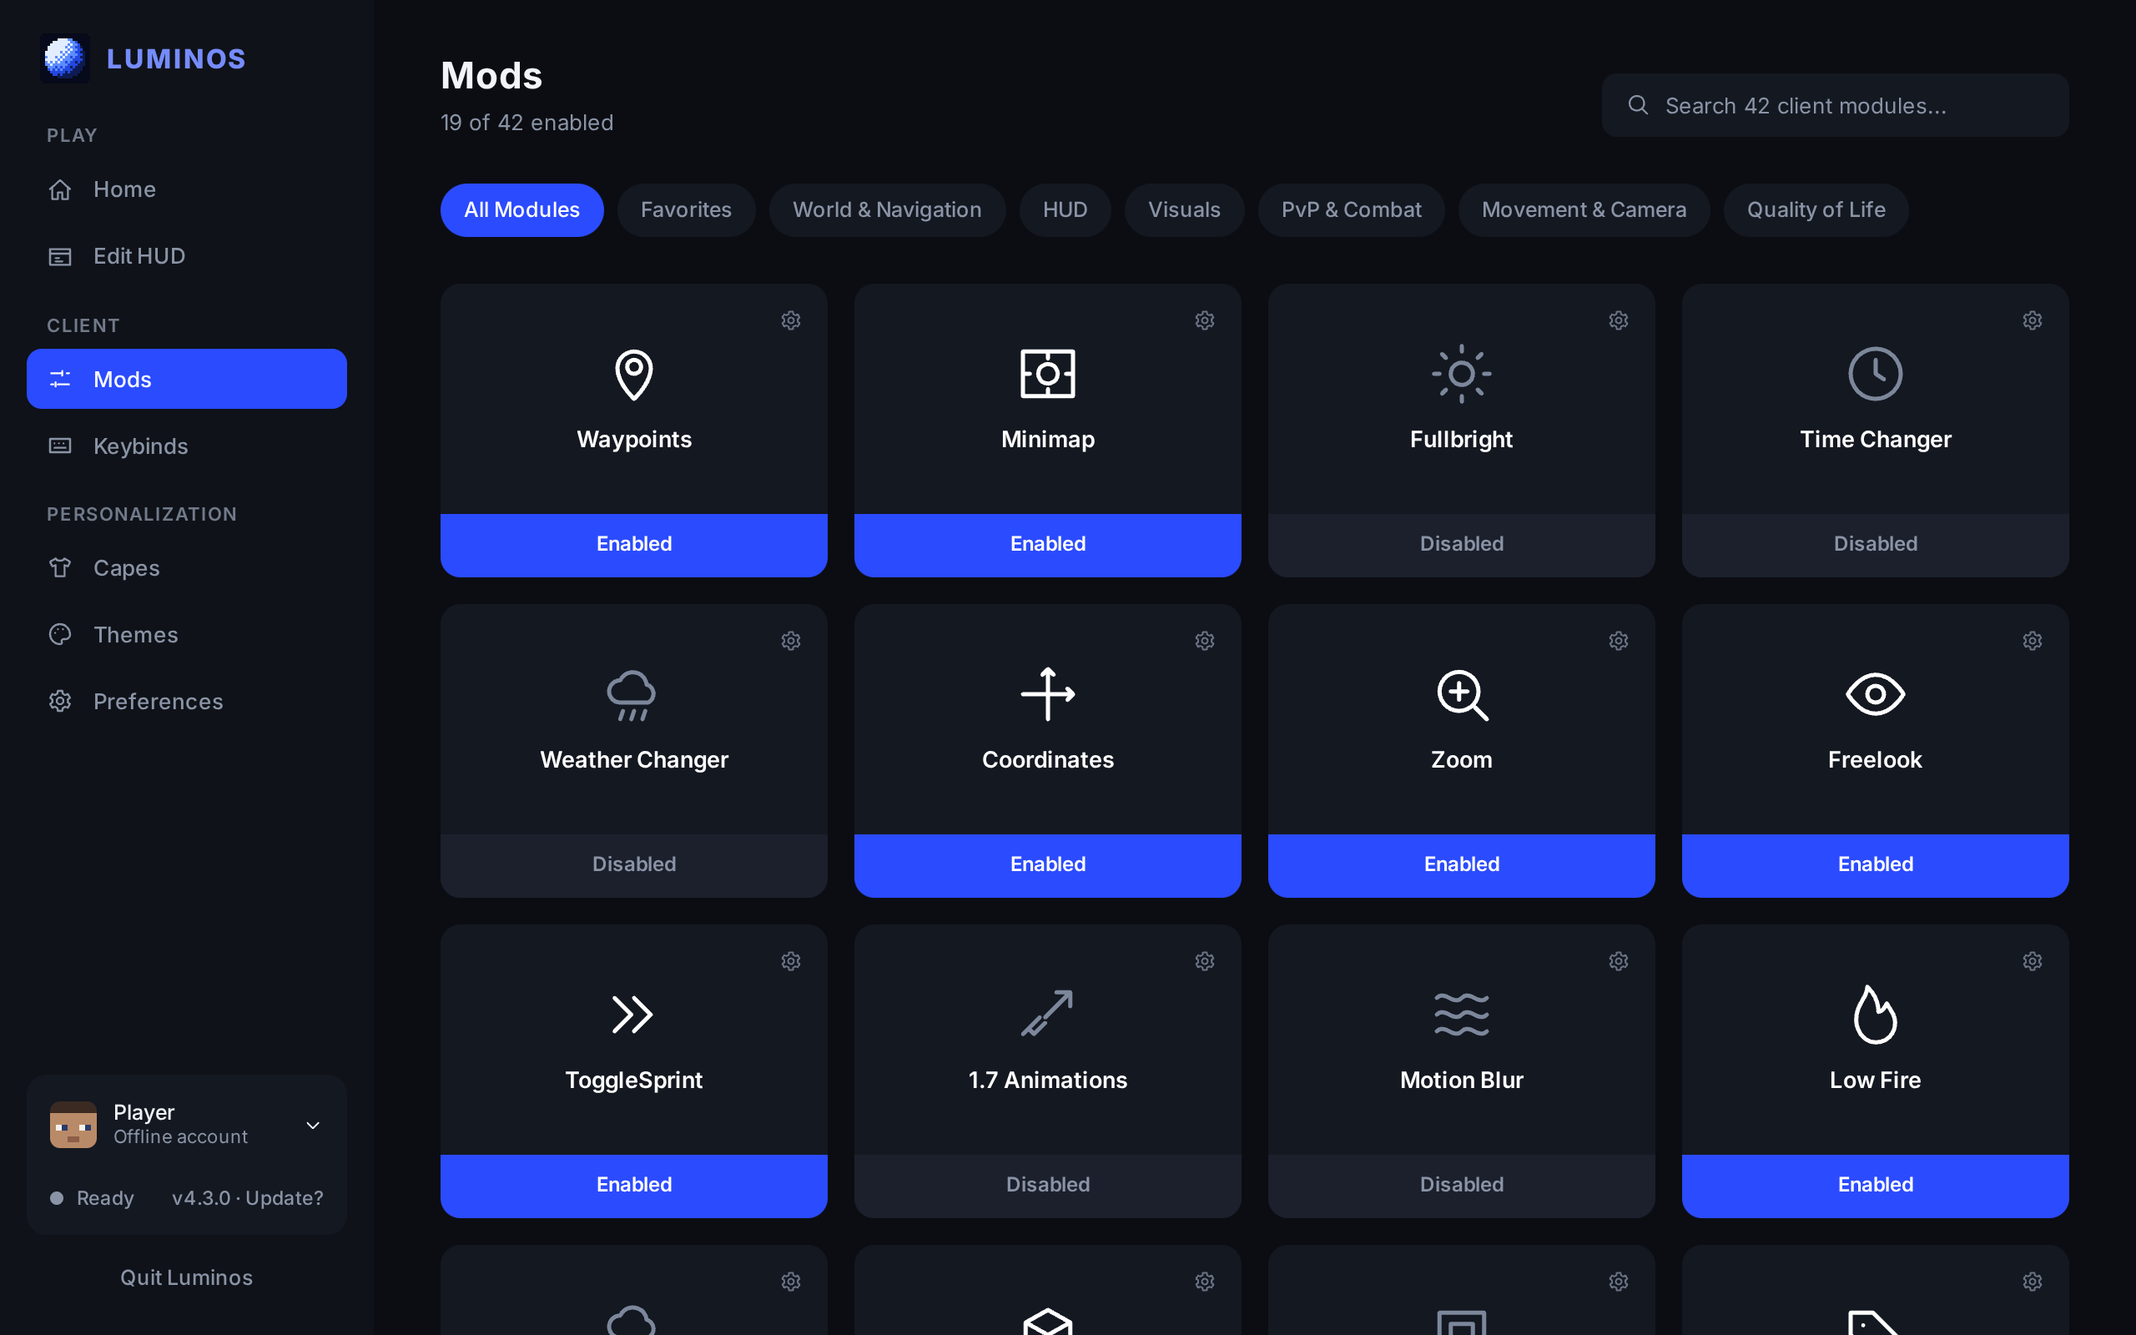
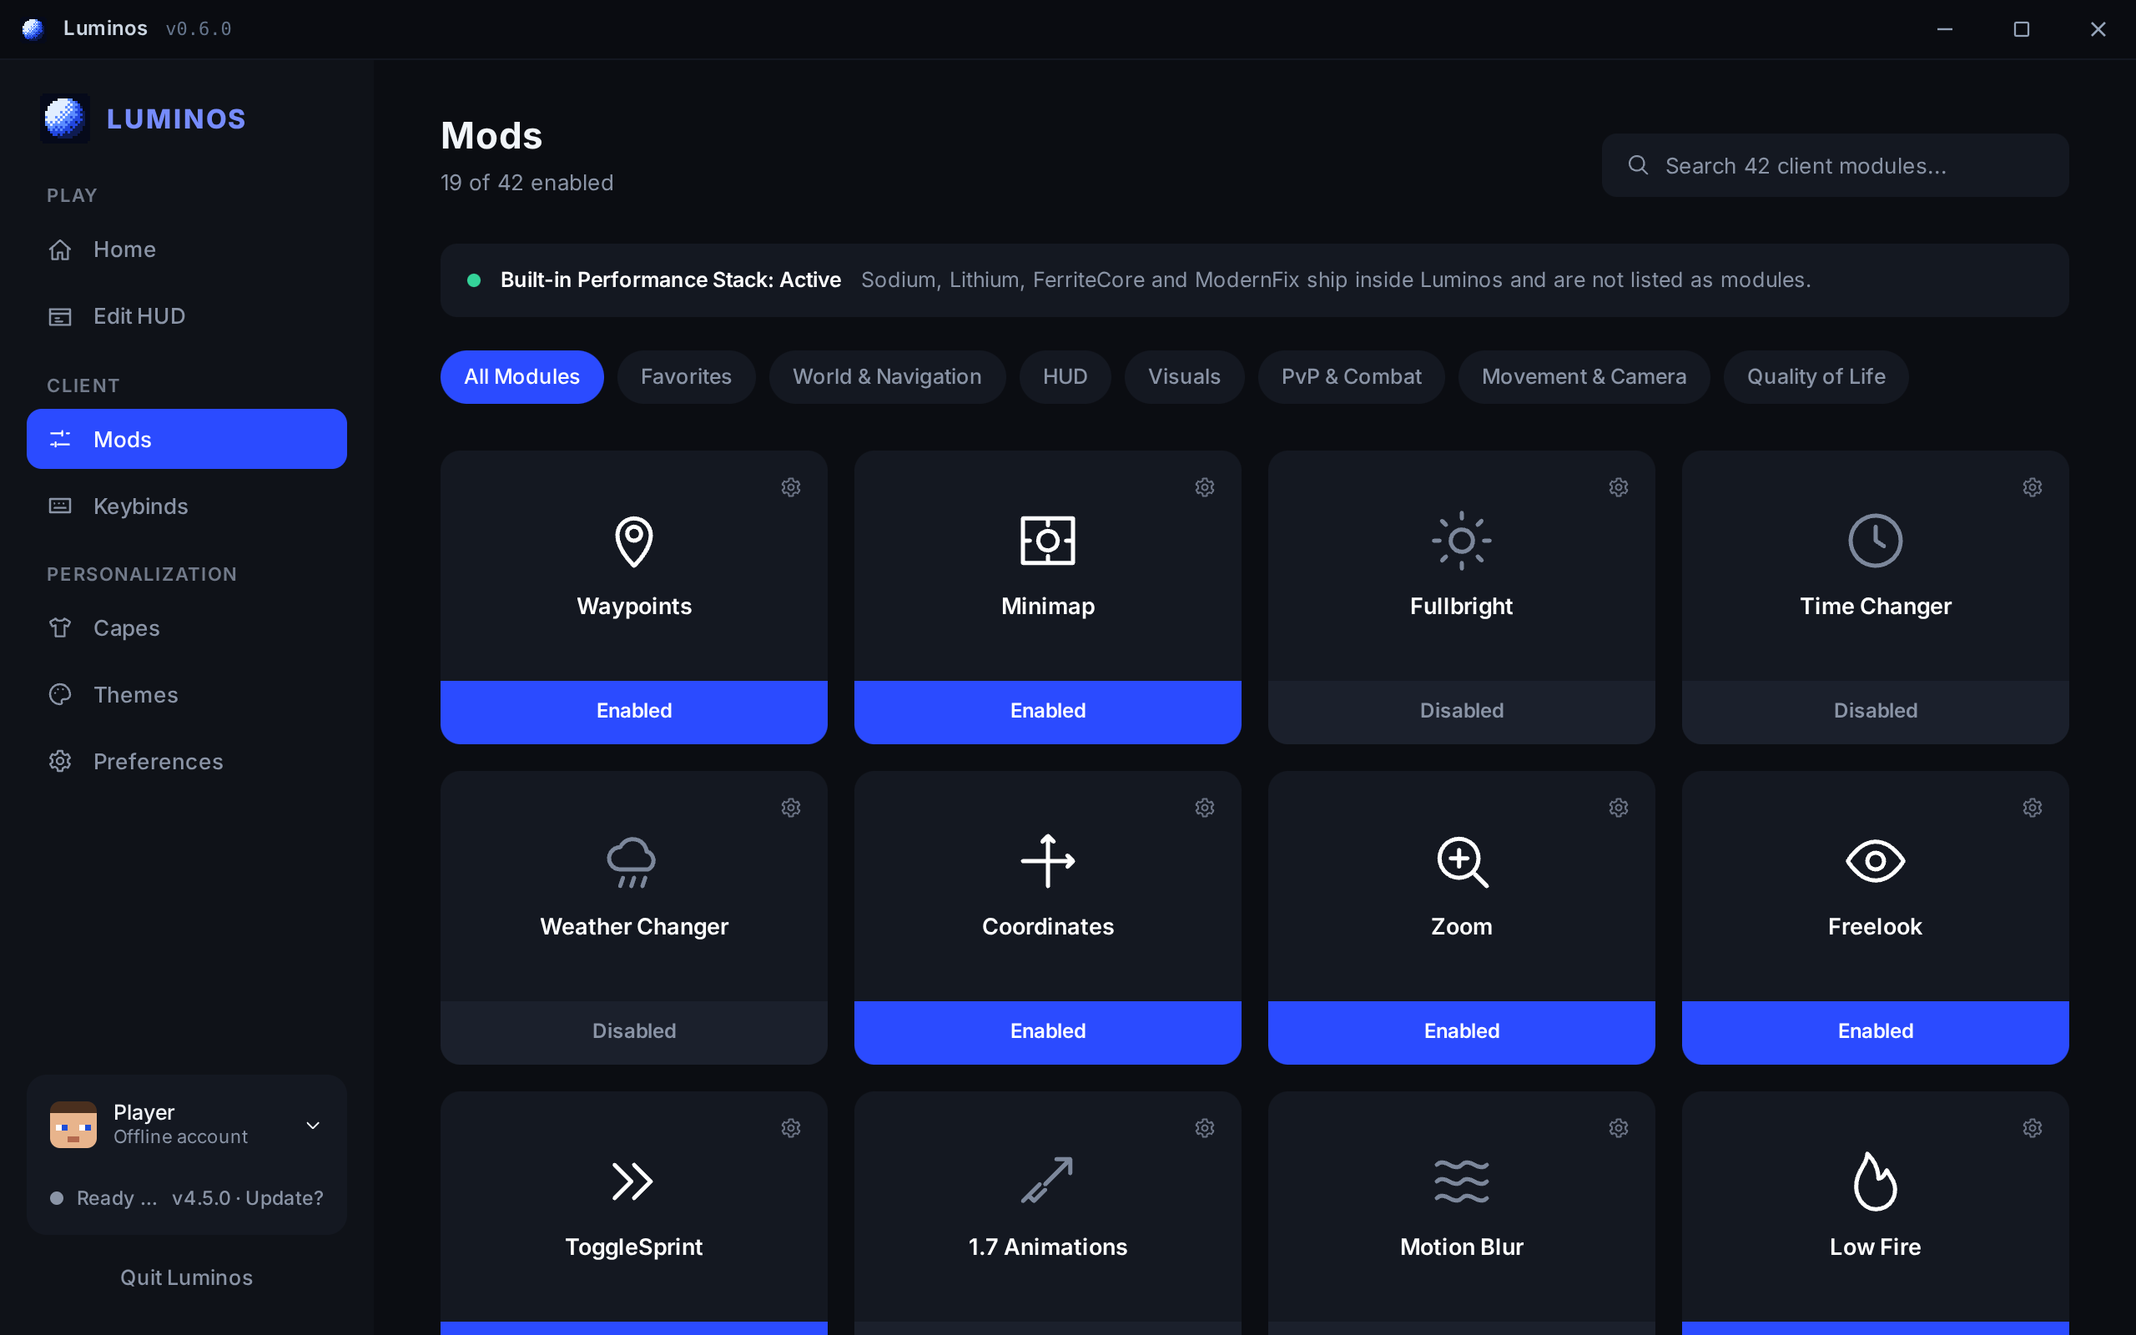
fix(release 4.5.0): changelog EN/ES sections, 26.x jar version, startup marker for Luminos menu; launcher v4.5 renders, clipped version picker, stale title-bar version; site showcase tabs

diff --git a/site/src/components/InsideV45.tsx b/site/src/components/InsideV45.tsx
@@ -9,6 +9,9 @@ const TABS = [
   { id: "startup", label: "In-Game Startup Screen", src: "renders/mc-startup-screen.png", note: "LuminosMainMenuScreen replaces the vanilla title screen. Seven actions, keyboard navigation, no blur pass.", callouts: ["setScreen Mixin swaps TitleScreen", "TitleScreen.init guard as fallback", "renderBackground is a no-op"] },
   { id: "panel", label: "Right-Ctrl Quick Mod Panel", src: "renders/mc-quick-panel.png", note: "Tabs, toggles and the settings drawer all work in place. Nothing in this panel opens another screen.", callouts: ["Raw key hook + per-frame poll", "One clipped hit-region list", "Inline drawer, real Scale slider"] },
   { id: "hud", label: "In-Game HUD Studio", src: "renders/mc-hud-studio.png", note: "Drag a widget and it snaps to the centre guide. This frame is a real drag through the editor's own code.", callouts: ["Magnetic centre and edge guides", "Per-widget scale and on/off", "Sample data when no world is loaded"] },
+  { id: "home", label: "Launcher Home & Version Switcher", src: "renders/launcher-home.png", note: "Pick the Minecraft version (1.21.4 down to 1.19.4), the engine preset and the window mode right next to Launch. The choice is saved at once and used by the launch.", callouts: ["7 Fabric versions, one click", "Max FPS / Competitive PvP / Balanced", "Own title bar: minimize, maximize, close"] },
+  { id: "capes", label: "3D Capes Studio", src: "renders/launcher-capes.png", note: "Your own character, lit so it reads clearly, beside the original 3D cape cards. Front and Back views.", callouts: ["skinview3d, studio lighting", "Original Luminos capes only", "Classic or Slim arms"] },
+  { id: "mods", label: "Mod Matrix", src: "renders/launcher-mods.png", note: "42 client modules as cards with an in-place switch. The performance stack is built in and not listed as modules.", callouts: ["One switch per module", "Filter by category", "Shares config with the in-game panel"] },
 ] as const;
 
 export default function InsideV45() {
@@ -17,9 +20,9 @@ export default function InsideV45() {
   const t = TABS[i];
   return (
     <section id="inside" className="mx-auto max-w-6xl px-6 py-24" aria-labelledby="inside-h">
-      <p className="text-xs uppercase tracking-widest" style={{ color: "#8FA2FF" }}>Inside Luminos v4.5</p>
-      <h2 id="inside-h" className="mt-2 text-3xl font-semibold text-white">Real in-game client renders</h2>
-      <p className="mt-3 max-w-2xl text-sm" style={{ color: "#94A3B8" }}>Rendered at 1280×800 @2x by the client's headless test suite, using the same layout and hit-test code the game runs. They are composed renders (a drawn world backdrop, no GPU), not screenshots of a running game.</p>
+      <p className="text-xs uppercase tracking-widest" style={{ color: "#8FA2FF" }}>Inside Luminos v4.5 · Real In-Game Client &amp; Launcher Renders</p>
+      <h2 id="inside-h" className="mt-2 text-3xl font-semibold text-white">Real in-game client &amp; launcher renders</h2>
+      <p className="mt-3 max-w-2xl text-sm" style={{ color: "#94A3B8" }}>The three in-game screens are rendered at 1280×800 @2x by the client's headless test suite, using the same layout and hit-test code the game runs: composed renders with a drawn world backdrop, not screenshots of a running game. The launcher shots are captures of its real interface in a browser at the same size, not of the packaged Windows window.</p>
       <div role="tablist" aria-label="Client screens" className="mt-8 flex flex-wrap gap-2">
         {TABS.map((x, n) => (
           <button key={x.id} role="tab" aria-selected={n === i} onClick={() => setI(n)} className="h-10 px-4 rounded-lg text-sm font-medium transition-colors" style={n === i ? { background: "#2B4BFF", color: "#fff" } : { background: "#141821", color: "#94A3B8" }}>{x.label}</button>

diff --git a/app/src/screens/Home.tsx b/app/src/screens/Home.tsx
@@ -121,14 +121,16 @@ export default function Home({ boot, go }: { boot: Boot; go: (r: string) => void
   return (
     <Page>
       <div className="space-y-8">
-        <section className="relative h-[300px] rounded-[16px] overflow-hidden flex items-end justify-start p-9" style={{ background: "var(--surface)" }}>
-          <img src="/art/hero-blue-hour.webp" alt="" className="absolute inset-0 w-full h-full object-cover object-right" decoding="async" />
-          <div className="absolute inset-0" style={{ background: "linear-gradient(90deg, rgba(11,13,18,0.95) 0%, rgba(11,13,18,0.65) 48%, rgba(11,13,18,0) 82%)" }} />
-          <div className="relative max-w-[560px] space-y-4">
+        <section className="relative min-h-[300px] rounded-[16px] flex items-end justify-start px-9 py-8" style={{ background: "var(--surface)" }}>
+          <div aria-hidden className="absolute inset-0 rounded-[16px] overflow-hidden">{/* only the art is clipped, so the pickers can open over the page */}
+            <img src="/art/hero-blue-hour.webp" alt="" className="absolute inset-0 w-full h-full object-cover object-right" decoding="async" />
+            <div className="absolute inset-0" style={{ background: "linear-gradient(90deg, rgba(11,13,18,0.95) 0%, rgba(11,13,18,0.65) 48%, rgba(11,13,18,0) 82%)" }} />
+          </div>
+          <div className="relative max-w-[840px] space-y-3">
             <span className="inline-flex items-center gap-2 text-[11px] font-bold tracking-wider uppercase" style={{ color: "#8FA2FF" }}><span aria-hidden className="w-1.5 h-1.5 rounded-full" style={{ background: "#34D399" }} />Luminos Client v{APP_VERSION} · MC {c.prefs.gameVersion} · {c.prefs.enginePreset}</span>
             <h1 className="m-0 !mt-2 text-[32px] font-bold leading-tight text-white">Luminos Client <span style={{ color: "#8FA2FF" }}>{APP_VERSION.split(".").slice(0, 2).join(".")}</span></h1>
-            {!preparing && <p className="m-0 !mt-3 text-[13.5px] leading-relaxed" style={{ color: "#94A3B8" }}>{MODULES.length} built-in PvP and survival modules, with the performance stack and the Luminos Asset Verifier already inside. Press Right Ctrl in game for the quick panel.</p>}
-            <div className="pt-3 flex items-center gap-3 flex-wrap">
+            {!preparing && <p className="m-0 !mt-2 max-w-[560px] text-[13.5px] leading-relaxed" style={{ color: "#94A3B8" }}>{MODULES.length} built-in PvP and survival modules, with the performance stack and the Luminos Asset Verifier already inside. Press Right Ctrl in game for the quick panel.</p>}
+            <div className="pt-2 flex items-center gap-3 flex-wrap">
               {g.status === "idle" && (
                 <button onClick={() => void launch()} className="h-[46px] px-8 rounded-[10px] text-white text-[14px] font-semibold flex items-center gap-2.5 t press" style={{ background: "#2B4BFF", boxShadow: "0 4px 20px rgba(43,75,255,0.35)" }}>
                   <span aria-hidden>▶</span>LAUNCH LUMINOS
@@ -143,8 +145,8 @@ export default function Home({ boot, go }: { boot: Boot; go: (r: string) => void
                   <StopGameButton />
                 </>
               )}
-              {g.status === "idle" && <VersionSelect />}
-              {g.status === "idle" && <PresetSelect />}
+              {g.status === "idle" && <VersionSelect up={false} />}
+              {g.status === "idle" && <PresetSelect up={false} />}
               {g.status === "idle" && <button onClick={() => setHost(true)} className="h-[46px] px-4 rounded-[10px] text-[13px] font-medium t hover:!text-white" style={{ background: "rgba(22,27,38,.9)", color: "#94A3B8" }}>Host World</button>}
             </div>
             {g.status === "idle" && <div className="pt-1"><WindowModeToggle /></div>}

diff --git a/app/src/components/Sidebar.tsx b/app/src/components/Sidebar.tsx
@@ -19,7 +19,7 @@ const KIND: Record<string, string> = { MICROSOFT: "Microsoft", "ELY.BY": "Ely.by
 export default memo(function Sidebar({ page, go, name, skin, kind, onAccount }: { page: string; go: (r: string) => void; name: string; skin: string; kind: string; version?: string; onAccount: () => void }) {
   const g = useGame(), gv = useClient().prefs.gameVersion;
   const pct = Math.max(0, Math.min(100, Math.round(g.progress?.percent ?? g.fraction * 100)));
-  const live = g.status === "running" ? { text: "In-Game", color: "#34D399" } : g.status === "preparing" ? { text: `Launching ${pct}%`, color: "#7C93FF" } : { text: `Ready · MC ${gv}`, color: "#8A94A6" };
+  const live = g.status === "running" ? { text: "In-Game", color: "#34D399" } : g.status === "preparing" ? { text: `Launching ${pct}%`, color: "#7C93FF" } : { text: `Ready · ${gv}`, color: "#8A94A6" };
   return (
     <nav aria-label="Main" className="w-[224px] shrink-0 px-4 pt-5 pb-4 flex flex-col justify-between min-h-0" style={{ background: "#0F1218" }}>
       <div className="min-h-0 overflow-y-auto">
@@ -49,8 +49,8 @@ export default memo(function Sidebar({ page, go, name, skin, kind, onAccount }: 
           </button>
           <div className="flex items-center gap-2 px-1.5 h-7 text-[11.5px] font-medium" aria-live="polite">
             <span className="w-2 h-2 rounded-full shrink-0" style={{ background: live.color }} />
-            <span className="flex-1 truncate" style={{ color: live.color }}>{live.text}</span>
-            {g.status === "idle" && <button onClick={() => dispatchEvent(new Event("luminos:update"))} className="t hover:text-white" style={{ color: "var(--mute)" }} title="Check for a newer Luminos release" aria-label="Check for updates">v{APP_VERSION} · Update?</button>}
+            <span className="flex-1 min-w-0 truncate" style={{ color: live.color }} title={live.text}>{live.text}</span>
+            {g.status === "idle" && <button onClick={() => dispatchEvent(new Event("luminos:update"))} className="t hover:text-white" style={{ color: "var(--mute)" }} title={`Luminos v${APP_VERSION} — check for a newer release`} aria-label="Check for updates">↻</button>}
           </div>
           {g.status === "running" && <StopGameButton compact />}
         </div>

diff --git a/app/src/api.ts b/app/src/api.ts
@@ -7,7 +7,7 @@ export type Inst = { id: string; name: string; mc: string; loader: string; mods?
 export type AuditReport = { ok: boolean; checked: number; replaced: string[]; dropped: { name: string; reason: string }[]; notes: string[] };
 
 export const SEED = {
-  version: "0.6.0",
+  version: "4.5.0",
   account: { username: "Mira", uuid: "7f3a…c91e", kind: "Offline", cape: "luminos-moon-cape", skin: "luminos-pilot" },
   instances: [
     { id: "luminos-263", name: "Luminos", mc: "26.3", loader: "Fabric", mods: 31, playtime: 51720, last: "Today", java: 25 },

diff --git a/client/src/shared/java/dev/luminos/client/LuminosClient.java b/client/src/shared/java/dev/luminos/client/LuminosClient.java
@@ -73,7 +73,9 @@ public final class LuminosClient implements ClientModInitializer {
 
 		// CI hook: the smoke job looks for this exact line, then runs a short scripted tour and exits.
 		ScreenEvents.AFTER_INIT.register((client, screen, w, h) -> {
-			if (screen instanceof TitleScreen) {
+			// Since 4.4.0 the first screen is LuminosMainMenuScreen (not a TitleScreen subclass); it counts as "title reached" too.
+			// Matched by name because this shared source set also compiles for the 26.x client, which has no such class.
+			if (screen instanceof TitleScreen || screen.getClass().getSimpleName().equals("LuminosMainMenuScreen")) {
 				StartupProbe.titleReached();
 				LOGGER.info("[luminos] title-screen reached (minecraft {})", Nav.version(Minecraft.getInstance()));
 				if (System.getenv("LUMINOS_SMOKE") != null && smokeTick < 0) smokeTick = 0;

diff --git a/CHANGELOG.md b/CHANGELOG.md
@@ -1,11 +1,22 @@
 # Changelog
 
 ## 4.5.0
+
+### English
 - Launcher window: no longer always-on-top and no longer taller than 88% of the monitor, so it cannot cover the Windows taskbar (default 1200x720, minimum 960x580). Own title bar with minimize, maximize/restore and close, drag region and double-click to maximize. Always-on-top is an opt-in switch in Preferences.
 - Launcher: Minecraft version (1.21.4 to 1.19.4), engine preset and window mode selectors on Home and in Preferences, saved at once. Launch uses (or creates) the Fabric instance for exactly the selected version.
 - In-game client: startup screen redesigned as one left column of seven actions with keyboard navigation and a live engine badge; quick panel tabs renamed (Render, FPS); the open/close rule for Right Ctrl is now a tested pure function.
 - Client tests: 9 headless JUnit tests (clicks, tabs, in-place toggles, inline drawer, slider drag, key routing, Mixin registration) plus 2560x1600 renders of the three in-game screens. Composed renders, not captures of a running game.
 - Not verified: nothing was launched in a real Minecraft or on a real Windows desktop in this release; the Luminos Client loads on Minecraft 1.21.11 only.
+- **Release pipeline:** the 4.4.0 and 4.5.0 releases failed to publish because this section had no English / Español headings, and the real-game agent test never saw the startup screen (its marker only matched vanilla's TitleScreen). Both are fixed; the 26.x client jar is now versioned 4.5.0 too.
+
+### Español
+- **Ventana del lanzador:** ya no está siempre encima ni supera el 88% del monitor, por lo que no puede tapar la barra de tareas de Windows (por defecto 1200x720, mínimo 960x580). Barra de título propia con minimizar, maximizar/restaurar y cerrar.
+- **Lanzador:** selectores de versión de Minecraft (1.21.4 a 1.19.4), preajuste del motor y modo de ventana en Inicio y en Preferencias, guardados al instante. Jugar usa (o crea) la instancia Fabric de la versión elegida.
+- **Cliente en el juego:** pantalla de inicio rediseñada con siete acciones, navegación por teclado e indicador del motor; el Ctrl derecho abre y cierra el panel con una regla probada.
+- **Pruebas del cliente:** 9 pruebas JUnit sin ventana (clics, pestañas, interruptores, cajón de ajustes, deslizadores, teclas, registro de Mixins) y renders de 2560x1600 de las tres pantallas. Son composiciones, no capturas del juego.
+- **Publicación:** 4.4.0 y 4.5.0 no se publicaron porque faltaban los encabezados English / Español, y la prueba real del agente no detectaba la pantalla de inicio de Luminos. Ambos puntos están corregidos.
+- **Sin verificar:** no se ejecutó en una ventana real de Minecraft ni en un escritorio real de Windows; el cliente solo carga en Minecraft 1.21.11.
 
 ## 4.4.0
 

diff --git a/CONTINUITY.md b/CONTINUITY.md
@@ -293,3 +293,9 @@ Handover: `docs/START_HERE.md`. Evidence: `docs/client-shots/README.md` (feature
 
 ## Session 2.3.0 (see CHANGELOG)
 - Hero restored, HD 3D capes, 16 rule-built skins, streaming updater with re-run, LuminosClient.exe wrapper, title-screen cosmetics. Verified: `node scripts/verify-v2.3.mjs`, `cargo test -p luminos-core update::`, `./gradlew build` (JDK 25), Playwright shots. NOT verified: a real Windows update, a real game launch, in-game cape render.
+
+## Session 4.5.0 release repair (this session)
+- Why 4.4.0 / 4.5.0 never published: (1) `## 4.5.0` in CHANGELOG lacked `### English` / `### Español` (same mistake as 4.2.0) so `release-notes.mjs` exited 1; (2) `client26/gradle.properties` was still 4.4.0, so the 26.x jar was named 4.4.0; (3) the agent end-to-end smoke step waits for the log line `[luminos] title-screen reached`, which only fired for vanilla `TitleScreen`. Since 4.4.0 the first screen is `LuminosMainMenuScreen`, so the marker never fired and the harness timed out (420 s). Fixed in `LuminosClient` (marker also fires for `LuminosMainMenuScreen`, matched by simple name because the shared source set also builds the 26.x client).
+- Launcher renders re-done for 4.5 with `app/tools/rounds-v45.mjs` (1280x800 @2x). Defects found by looking: clipped hero headline (fixed height), stale `v0.6.0` in the title bar (`SEED.version`), dock text truncated, and the Home version picker was clipped by the hero's `overflow-hidden` so it could not be used (art is now clipped on its own layer; pickers open downward).
+- Site: `InsideV45` now has 6 tabs; `app/tools/site-showcase-v45.mjs` fails on any broken image. `scripts/verify-v4.5-rounds.mjs` checks round hashes differ and site renders equal round 3.
+- Honest limits: the three `mc-*` PNGs are the earlier headless Java2D renders from the client test suite (not regenerated here, no JDK in this session, not game captures). Launcher PNGs are browser renders of the web UI, not the packaged Tauri window. Nothing was run on real Windows or inside a real Minecraft window. The client targets MC 1.21.11, not 1.21.4; the launcher's version list is a launch choice, the Luminos Client jar loads on 1.21.11 only.
